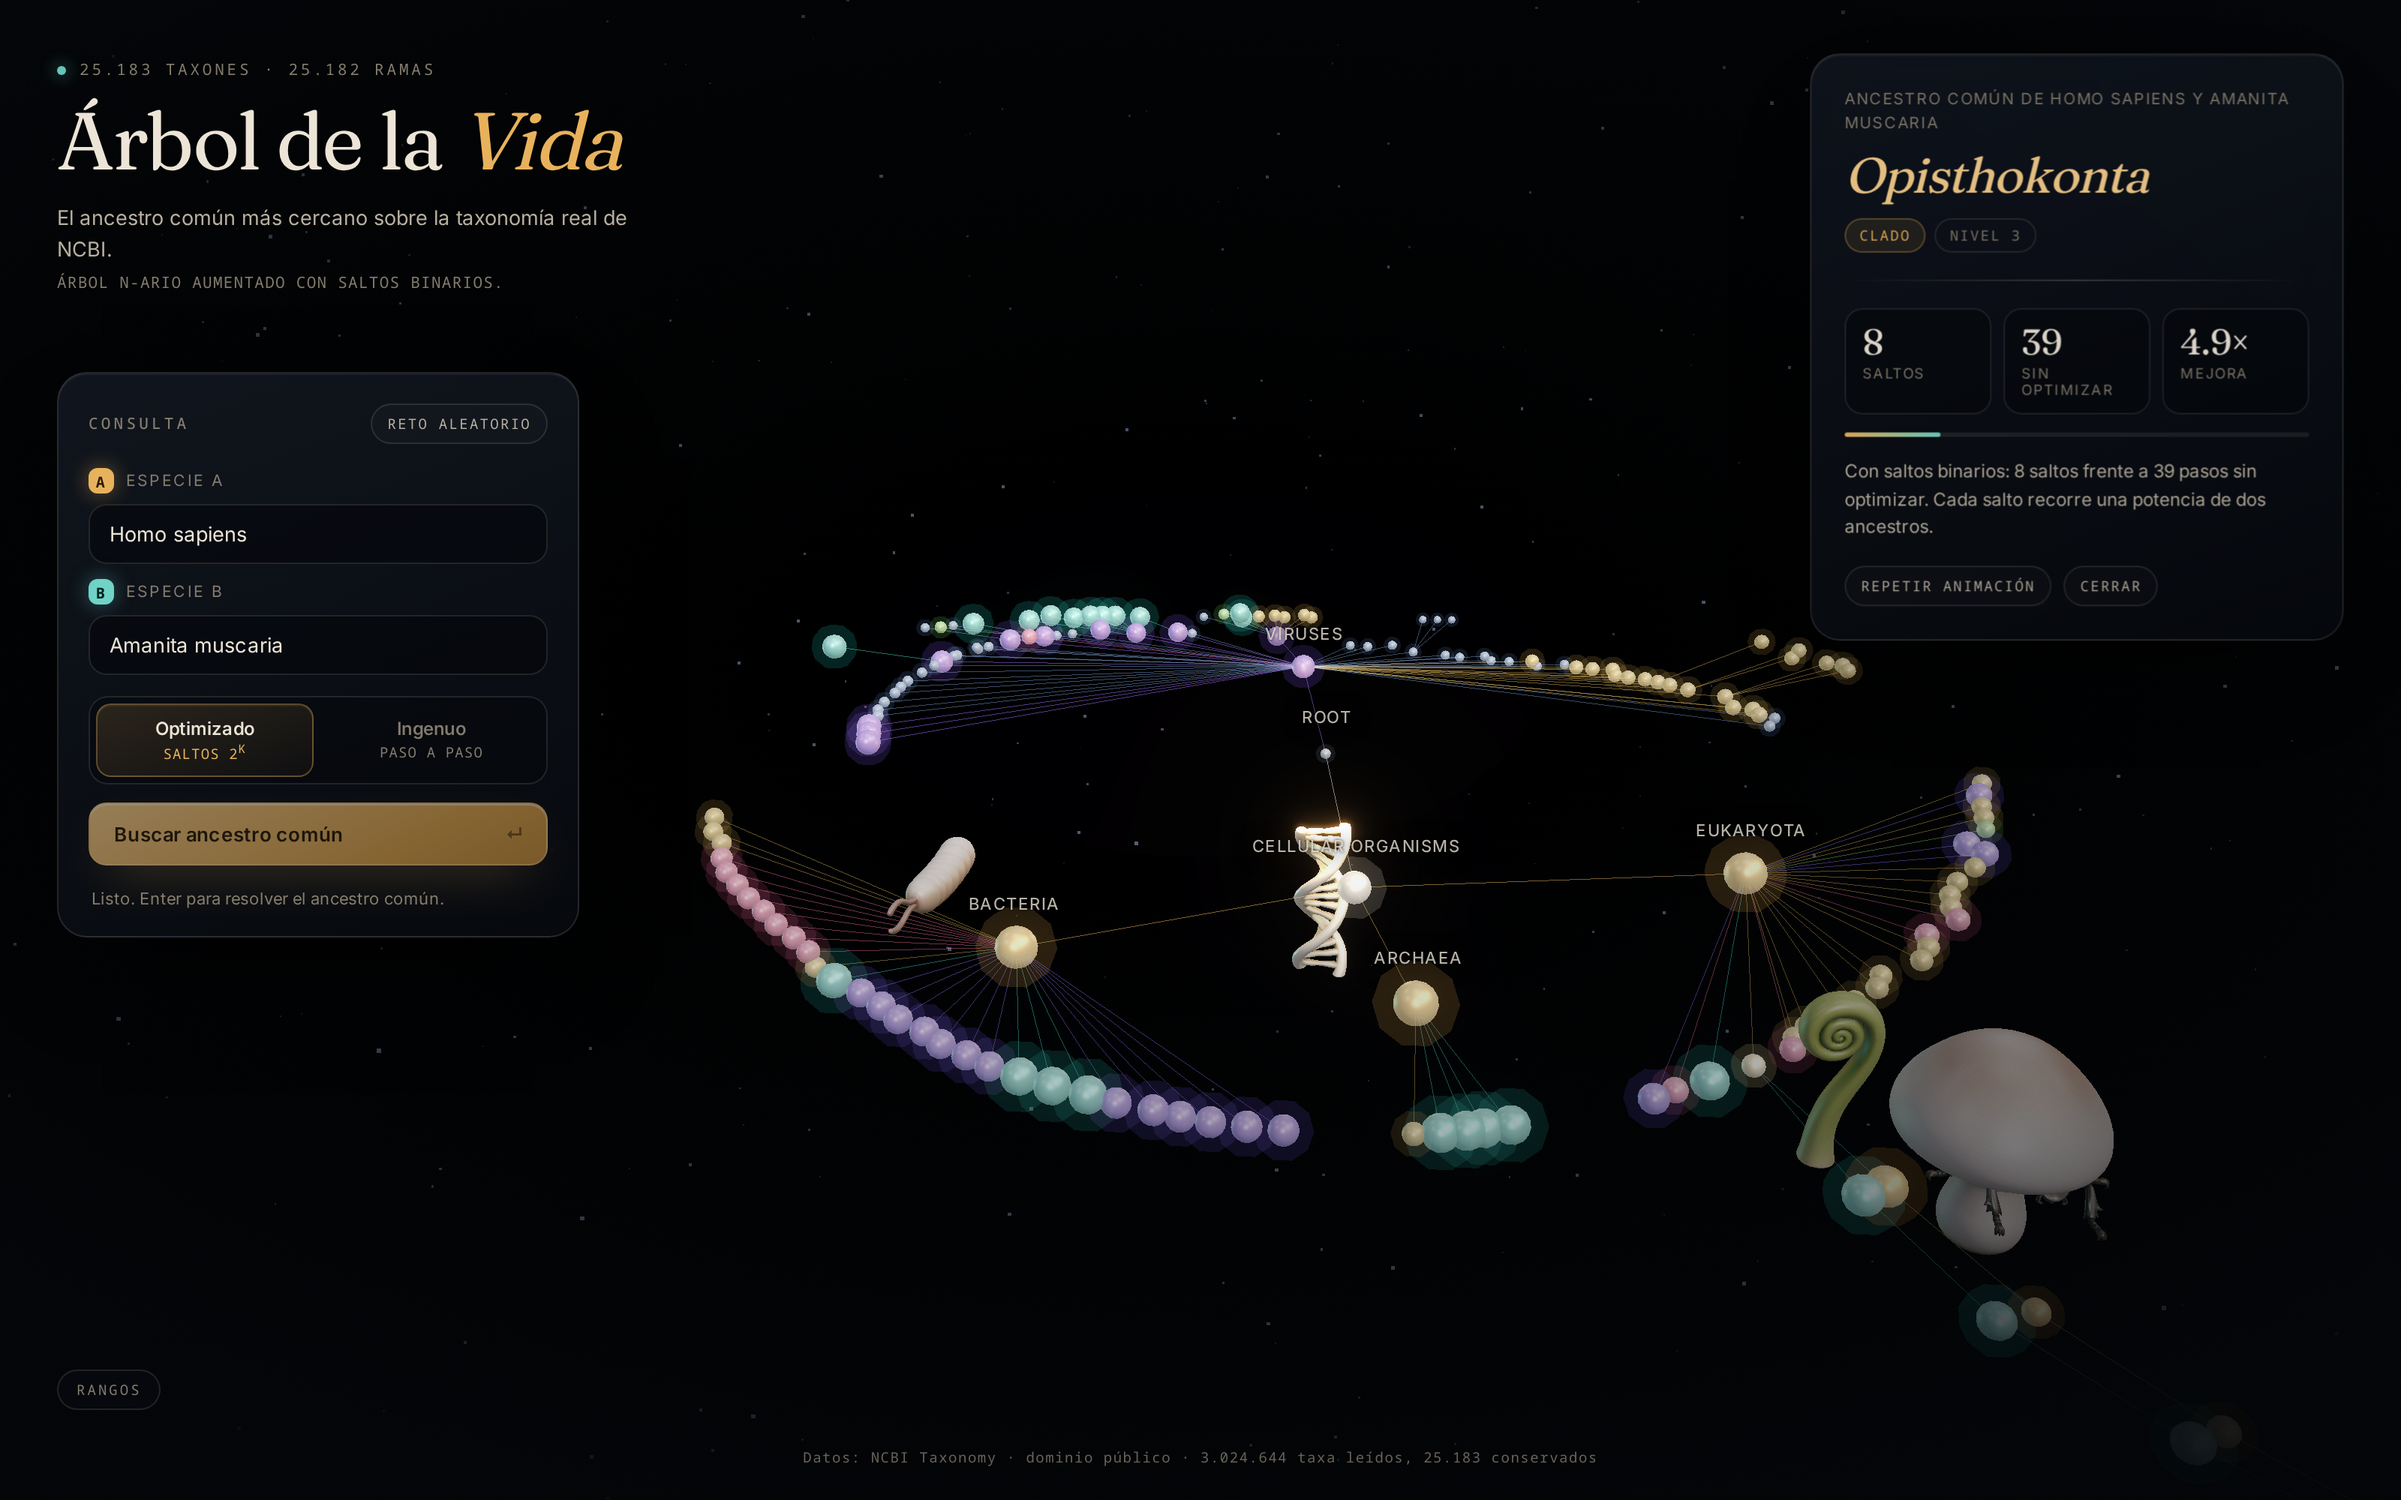
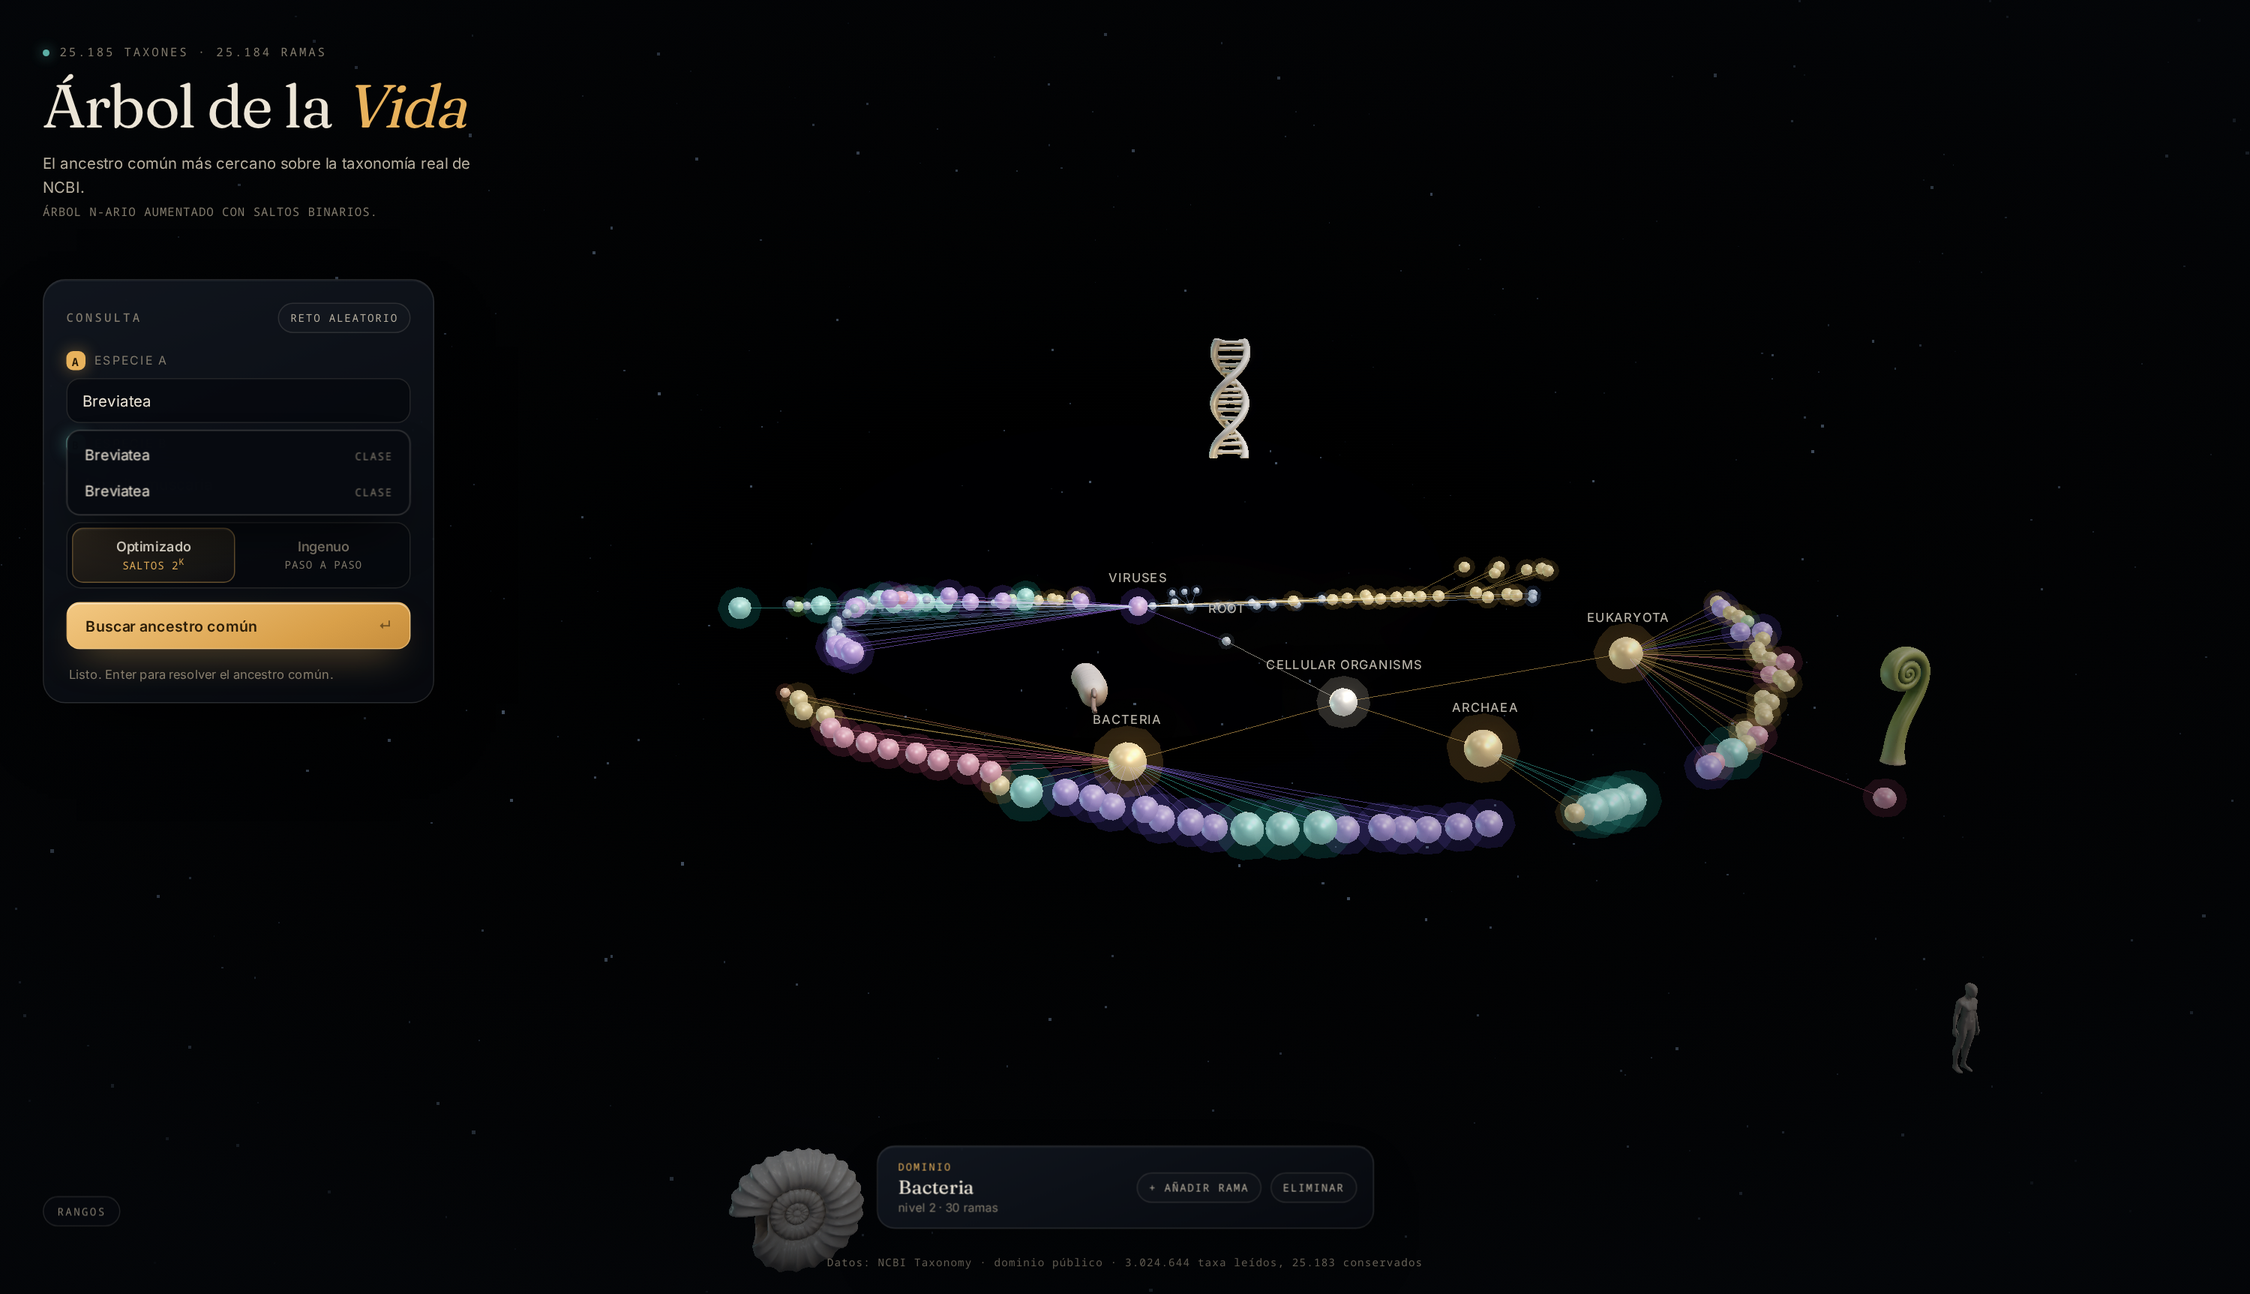
Modelos siempre en escena, edición visible y portada nueva

diff --git a/frontend/src/main.ts b/frontend/src/main.ts
@@ -33,6 +33,7 @@ interface State {
   selected: number | null;
   expanded: Set<number>;
   forced: Set<number>;
+  pinned: Set<number>;
   last: LCAResult | null;
   busy: boolean;
   modalMode: "add" | "delete";
@@ -46,6 +47,7 @@ const state: State = {
   selected: null,
   expanded: new Set(),
   forced: new Set(),
+  pinned: new Set(),
   last: null,
   busy: false,
   modalMode: "add",
@@ -74,7 +76,8 @@ const toastElement = $("toast");
 
 function relayout(): void {
   if (!state.dataset) return;
-  const layout = computeLayout(state.dataset, state.expanded, BASE_DEPTH, state.forced);
+  const visible = new Set([...state.forced, ...state.pinned]);
+  const layout = computeLayout(state.dataset, state.expanded, BASE_DEPTH, visible);
   scene.setLayout(layout);
 }
 
@@ -182,9 +185,11 @@ async function boot(): Promise<void> {
       { taxid: 4751, url: "/assets/hero/fungi.glb", scale: 1.9, push: 2.8 },
       { taxid: 33090, url: "/assets/hero/plant.glb", scale: 1.9, push: 2.6, offsetY: 1.4 },
       { taxid: 33208, url: "/assets/hero/beetle.glb", scale: 1.9, push: 2.4 },
-      { taxid: 6447, url: "/assets/hero/shell.glb", scale: 1.9, push: 2.2 },
-      { taxid: 9606, url: "/assets/hero/human.glb", scale: 1.6, push: 1.8 },
-    ].filter((spec) => dataset.byId.has(spec.taxid));
+      // Los dos especímenes que viven en ramas demasiado profundas se exponen
+      // en la galería frontal, para que siempre estén a la vista.
+      { url: "/assets/hero/shell.glb", scale: 1.9, fixed: { x: -10.5, y: -5.6, z: 11 } },
+      { url: "/assets/hero/human.glb", scale: 1.7, fixed: { x: 10.5, y: -5.6, z: 11 } },
+    ].filter((spec) => spec.taxid === undefined || dataset.byId.has(spec.taxid));
 
     void scene.loadHeroes(heroes);
 
@@ -193,6 +198,10 @@ async function boot(): Promise<void> {
       setSlot("a", 9606);
       setSlot("b", 41956);
     }
+
+    setSlot("a", 9606);
+    setSlot("b", 41956);
+    selectNode(2);
 
     loader.classList.add("is-hidden");
     updateHint();
@@ -443,7 +452,6 @@ $("modal-confirm").addEventListener("click", async () => {
       closeModal();
       state.expanded.add(parentId);
       state.selected = created.id;
-      state.forced.clear();
       await refreshTree(`Rama “${created.name}” añadida.`);
       scene.flyTo(created.id, 8);
     } else {

diff --git a/frontend/src/scene.ts b/frontend/src/scene.ts
@@ -62,13 +62,15 @@ export function rankStyle(rank: string): RankStyle {
 }
 
 export interface HeroSpec {
-  taxid: number;
+  taxid?: number;
   url: string;
   scale?: number;
   /** Vertical offset from the node, so the piece never covers its label. */
   offsetY?: number;
   /** Radial separation from the branch, in world units. */
   push?: number;
+  /** When set, the piece lives at a fixed spot instead of hanging from a node. */
+  fixed?: { x: number; y: number; z: number };
 }
 
 export class TreeScene {
@@ -93,12 +95,13 @@ export class TreeScene {
   private positions = new Map<number, Point>();
   private dataset?: Dataset;
   private heroes: Array<{
-    taxid: number;
+    taxid: number | undefined;
     object: THREE.Object3D;
     baseY: number;
     phase: number;
     offsetY: number;
     push: number;
+    fixed?: { x: number; y: number; z: number };
   }> = [];
   private cometA?: THREE.Mesh;
   private cometB?: THREE.Mesh;
@@ -678,6 +681,7 @@ export class TreeScene {
             phase: Math.random() * Math.PI * 2,
             offsetY: spec.offsetY ?? 1.7,
             push: spec.push ?? 1.6,
+            fixed: spec.fixed,
           });
         } catch (error) {
           console.warn(`no se pudo cargar ${spec.url}`, error);
@@ -689,7 +693,13 @@ export class TreeScene {
 
   private updateHeroes(): void {
     for (const hero of this.heroes) {
-      const point = this.positions.get(hero.taxid);
+      if (hero.fixed) {
+        hero.object.visible = true;
+        hero.baseY = hero.fixed.y;
+        hero.object.position.set(hero.fixed.x, hero.baseY, hero.fixed.z);
+        continue;
+      }
+      const point = hero.taxid === undefined ? undefined : this.positions.get(hero.taxid);
       if (!point) {
         hero.object.visible = false;
         continue;

diff --git a/frontend/index.html b/frontend/index.html
@@ -63,7 +63,7 @@
         </button>
 
         <p class="panel__foot" id="query-hint">
-          Arrastra para orbitar · rueda para acercar · clic en un nodo para desplegarlo
+          Clic en un nodo: desplegar y editar (añadir o eliminar ramas) · arrastra para orbitar
         </p>
       </section>
 

diff --git a/README.md b/README.md
@@ -110,162 +110,6 @@ Atajos: **Enter** resuelve, **Esc** cierra el resultado, **doble clic** en el va
 
 ---
 
-## 5. Cómo ejecutar
-
-Requisitos: Python 3.12+ y Node 20+.
-
-```bash
-./run.sh            # compila la interfaz si hace falta y sirve todo en :8000
-```
-
-Abre **http://localhost:8000**.
-
-### Desarrollo
-
-```bash
-# terminal 1 — API
-cd backend
-python3 -m venv .venv && .venv/bin/pip install -r requirements.txt
-.venv/bin/python -m uvicorn api.main:app --reload --port 8000
-
-# terminal 2 — interfaz con recarga en caliente
-cd frontend
-npm install
-npm run dev          # http://localhost:5173 (proxy /api → :8000)
-```
-
-### Pruebas
-
-```bash
-cd backend && .venv/bin/python -m pytest
-```
-
-**27 pruebas** en cuatro bloques:
-
-- `test_tree.py` — invariantes: raíz única, `n-1` aristas, aciclicidad, profundidades consistentes, linaje contiguo.
-- `test_lca.py` — el resultado se compara contra **NetworkX como oráculo independiente** (400 pares aleatorios con semilla fija), y la versión escalar contra la vectorizada.
-- `test_trie.py` — prefijos, insensibilidad a mayúsculas, ranking, límites.
-- `test_api.py` — contrato HTTP, códigos de error, coherencia entre modos.
-
----
-
-## 6. API
-
-| Método | Ruta | Devuelve |
-|---|---|---|
-| `GET` | `/api/meta` | estadísticas del dataset, invariantes del árbol, tamaño de la tabla |
-| `GET` | `/api/taxonomy` | árbol completo en formato compacto (columnas + filas) |
-| `GET` | `/api/taxon/{taxid}` | ficha: linaje completo, nº de hijos y descendientes |
-| `GET` | `/api/search?q=` | sugerencias por prefijo |
-| `GET` | `/api/lca?a=&b=&mode=binary\|naive` | ancestro, rutas y **traza de saltos** para animar |
-| `GET` | `/api/random-pair` | dos especies con ancestro no trivial |
-
-La traza que consume la animación tiene esta forma:
-
-```json
-{
-  "side": "a",
-  "source": 9606,
-  "target": 9605,
-  "power": 0,
-  "cumulative": 1
-}
-```
-
-`power` es el exponente del salto: `0` significa una arista, `4` significa 16 ancestros de golpe. La interfaz convierte ese número en la velocidad y el tamaño de la estela.
-
-Documentación interactiva: **http://localhost:8000/docs**.
-
----
-
-## 7. Datos
-
-El repositorio incluye `backend/data/taxdump_subset/taxonomy.json` (1,7 MB) ya recortado, así que **funciona sin internet**.
-
-| | |
-|---|---|
-| Fuente | [NCBI Taxonomy](https://www.ncbi.nlm.nih.gov/taxonomy) (`taxdump.tar.gz`) |
-| Licencia | dominio público |
-| Taxones en el volcado | 3.024.644 |
-| Taxones conservados | **25.183** |
-| Profundidad máxima | 35 |
-| Ramificación máxima | 166 |
-| Nombres indexados | 25.170 |
-
-El recorte (`backend/scripts/build_subset.py`) conserva todos los taxones por encima del nivel de especie con rango significativo, **comprime las rutas** de los nodos descartados para que ninguna rama se pierda, y añade a mano 31 especies emblemáticas con su linaje completo.
-
-```bash
-# regenerar desde el volcado real de NCBI
-curl -O https://ftp.ncbi.nlm.nih.gov/pub/taxonomy/taxdump.tar.gz
-mkdir -p /tmp/taxdump && tar -xzf taxdump.tar.gz -C /tmp/taxdump nodes.dmp names.dmp
-cd backend && python3 scripts/build_subset.py --dump /tmp/taxdump --out data/taxdump_subset
-```
-
-> Trabajar con los 3 M de taxones exigiría una tabla de saltos de ~220 MB y un render imposible de leer. El subconjunto es una decisión de producto, documentada, no una limitación escondida.
-
----
-
-## 8. Decisiones de diseño
-
-**Python + WebGL, no Python de escritorio.**
-El backend Python es obligatorio y concentra todo el trabajo algorítmico; la visualización se hace en el navegador porque es donde existen el 3D, las animaciones y una tipografía decentes. La API es la frontera: el navegador solo dibuja lo que el backend calcula.
-
-**Librerías.**
-`numpy` construye la tabla de saltos de forma vectorizada (un nivel por operación, no 25.000 bucles). `networkx` se usa como vista de grafo y como **oráculo de pruebas**. `marisa-trie` guarda los nombres en un autómata compacto. `ete4` queda como dependencia opcional para leer el volcado directamente, pero solo publica código fuente y compilarlo puede fallar en Python 3.14, así que el parser propio es el camino principal.
-
-**Los modelos 3D no son decoración gratuita.**
-Un GLB por especie es inviable (25.000 modelos). Se usan **siete piezas** en nodos emblemáticos —ADN en la raíz, bacteria, hongo, planta, escarabajo, molusco y humano— y el resto son esferas instanciadas coloreadas por rango. Los modelos se reducen de 50.000 a ~11.000 triángulos y de 20-30 MB a 300-400 KB cada uno (`frontend/scripts/optimize-assets.sh`).
-
----
-
-## 9. Estructura del repositorio
-
-```
-arboles/
-├── run.sh                      # arranque en un solo comando
-├── backend/
-│   ├── taxonomy/
-│   │   ├── model.py            # Taxon
-│   │   ├── tree.py             # árbol n-ario + vista NetworkX + invariantes
-│   │   ├── lca.py              # binary lifting, versión ingenua y trazas
-│   │   ├── trie.py             # índice de prefijos
-│   │   └── parser.py           # lectura del dataset
-│   ├── api/
-│   │   ├── main.py             # FastAPI
-│   │   └── schemas.py          # modelos de respuesta
-│   ├── scripts/build_subset.py # recorte del taxdump
-│   ├── data/taxdump_subset/    # dataset listo para usar
-│   └── tests/                  # 27 pruebas
-├── frontend/
-│   ├── src/
-│   │   ├── scene.ts            # three.js: nodos, aristas, bloom, modelos
-│   │   ├── layout.ts           # layout radial 3D + nivel de detalle
-│   │   ├── ui.ts               # paneles, autocompletado, leyenda
-│   │   ├── main.ts             # orquestación
-│   │   └── styles.css          # sistema visual
-│   ├── scripts/optimize-assets.sh
-│   └── public/assets/hero/     # 7 GLB optimizados (2,6 MB)
-└── docs/capturas/
-```
-
----
-
-## 10. Limitaciones y trabajo futuro
-
-- **Subconjunto, no el árbol completo.** El recorte deja fuera especies y cepas; con el volcado completo haría falta cargar por clado bajo demanda. La alternativa escalable a *binary lifting* es **Euler tour + RMQ** (O(1) por consulta con 2n enteros, en lugar de O(n log n) memoria).
-- **Profundidades hasta especie.** Con 2,5 M de especies la tabla crece linealmente; el diseño por clados evita el problema pero no está implementado.
-- **Layout estático.** Al desplegar un nodo se recalcula todo el layout. Para árboles más grandes convendría un layout incremental con transiciones entre posiciones.
-- **Sin edición del árbol.** Es una estructura de consulta; no se insertan ni eliminan taxones desde la interfaz.
-
----
-
-## 11. Fuentes
-
-- NCBI Taxonomy Database — <https://www.ncbi.nlm.nih.gov/taxonomy>
-- Schieber & Vishkin (1988), *On finding lowest common ancestors: simplification and parallelization*.
-- Bender & Farach-Colton (2000), *The LCA problem revisited*.
-- Modelos 3D generados con Hunyuan3D y optimizados con `gltf-transform`.
-
 ---
 
 Proyecto de Estructuras de Datos · Cuarto Semestre<br>
